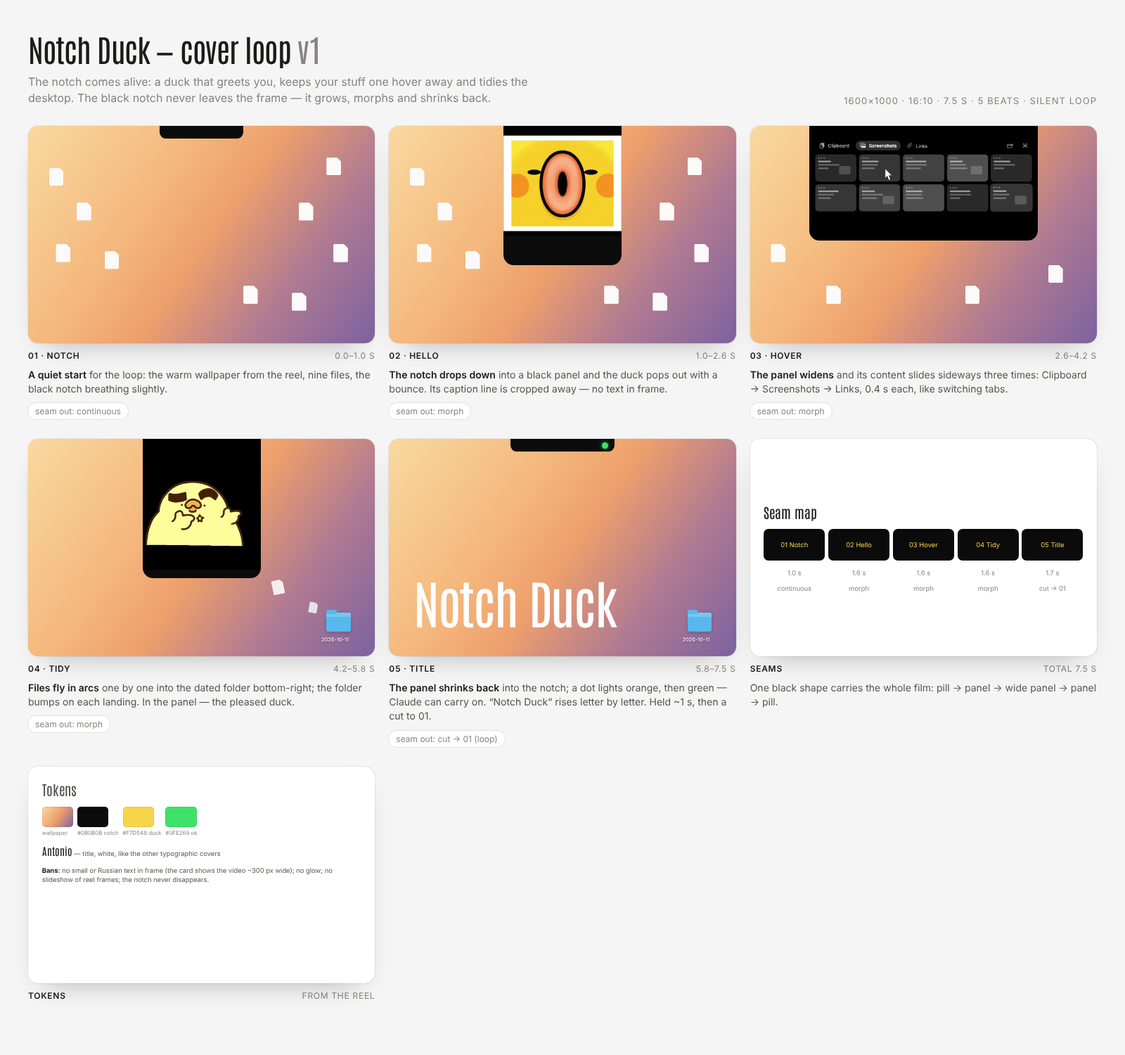
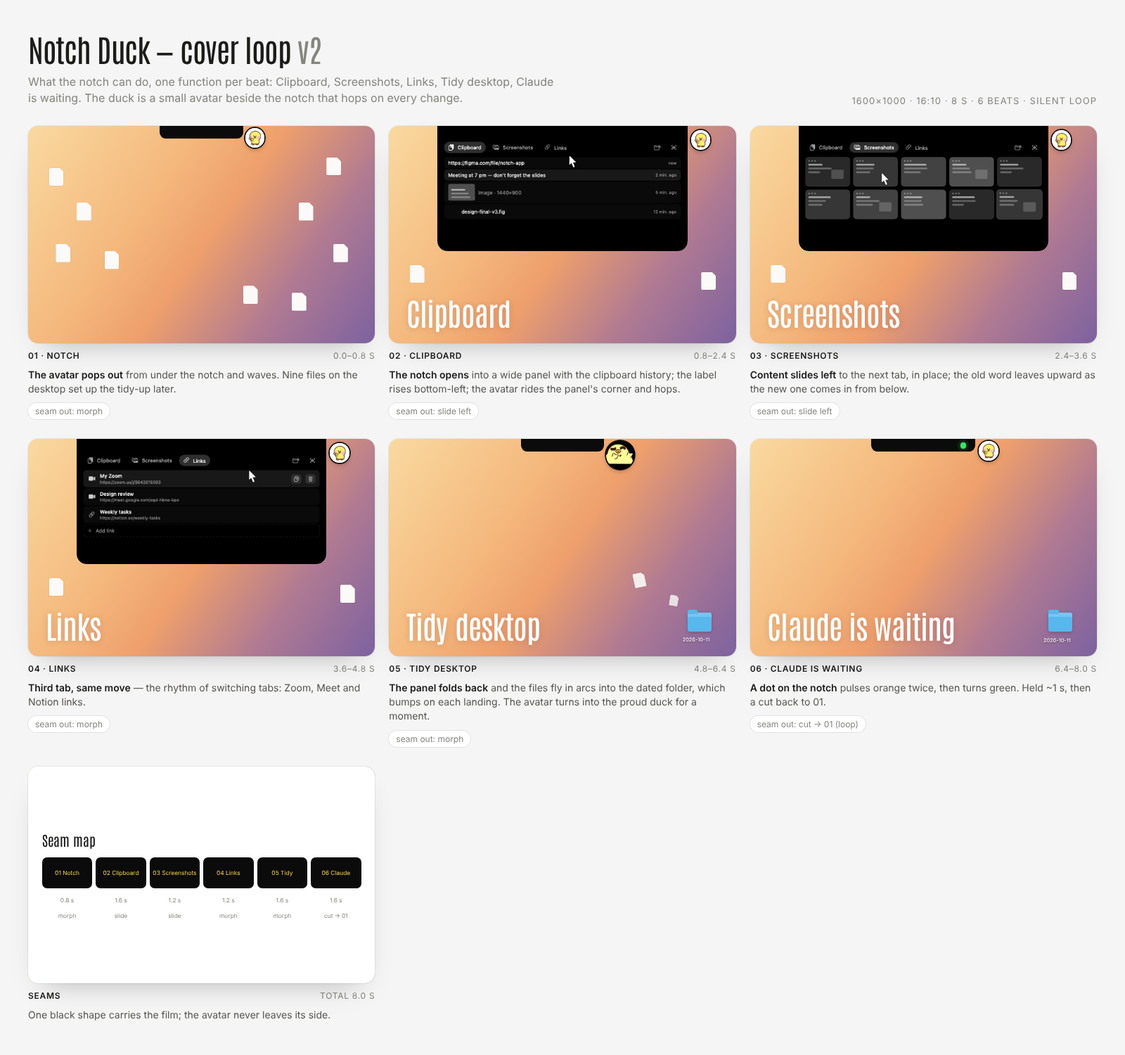
Notch Duck cover: storyboard v2 puts the features first
Feedback on v1: show what the app can do, let the duck just add life.
Six beats now, one per feature with a large label: Clipboard,
Screenshots, Links, Tidy desktop, Claude is waiting. The duck shrinks
to a round avatar beside the notch that hops on every change and turns
into the proud duck once after the tidy-up.

Claude-Session: https://claude.ai/code/session_013zobrgune8nkUsR9AuPLuf

diff --git a/prototypes/notch-duck-cover/storyboard.html b/prototypes/notch-duck-cover/storyboard.html
@@ -3,7 +3,7 @@
 <head>
 <meta charset="utf-8">
 <meta name="viewport" content="width=device-width, initial-scale=1">
-<title>Notch Duck cover — storyboard v1</title>
+<title>Notch Duck cover — storyboard v2</title>
 <style>
   @font-face { font-family: "Antonio"; src: url("assets/fonts/antonio.woff2") format("woff2"); }
   :root { --notch: #0b0b0b; --duck: #f7d548; --sheet: #f5f5f5; --ink: #1b1b1a; --label: #85847f; }
@@ -11,7 +11,7 @@
   body { margin: 0; background: var(--sheet); color: var(--ink); font-family: "Helvetica Neue", Helvetica, Arial, sans-serif; padding: 40px 40px 64px; }
   header { display: flex; justify-content: space-between; align-items: end; gap: 24px; margin-bottom: 28px; }
   header h1 { margin: 0; font-family: Antonio, sans-serif; font-weight: 400; font-size: 44px; letter-spacing: -0.03em; }
-  header p { margin: 8px 0 0; color: var(--label); font-size: 16px; max-width: 720px; line-height: 1.45; }
+  header p { margin: 8px 0 0; color: var(--label); font-size: 16px; max-width: 760px; line-height: 1.45; }
   .tag { font-size: 13px; letter-spacing: .08em; text-transform: uppercase; color: var(--label); white-space: nowrap; }
   .grid { display: grid; grid-template-columns: repeat(3, 1fr); gap: 28px 20px; }
   .cell { display: grid; gap: 10px; align-content: start; }
@@ -27,31 +27,31 @@
   /* pieces, 1cqw = 16px of the 1600px canvas */
   .notch { position: absolute; left: 50%; top: 0; background: var(--notch); overflow: hidden; }
   .pill { width: 24cqw; height: 3.6cqw; margin-left: -12cqw; border-radius: 0 0 1.8cqw 1.8cqw; }
+  .panel { width: 72cqw; height: 36cqw; margin-left: -36cqw; border-radius: 0 0 3cqw 3cqw; }
+  .panel img { position: absolute; left: 0; top: 0; width: 72cqw; }
+  .avatar { position: absolute; width: 5.6cqw; height: 5.6cqw; border-radius: 50%; overflow: hidden; background: #fff; box-shadow: 0 0 0 .35cqw var(--notch), 0 .6cqw 1.4cqw rgba(0,0,0,.25); }
+  .avatar img { width: 100%; height: 100%; object-fit: cover; display: block; }
   .file { position: absolute; width: 4.2cqw; height: 5.2cqw; background: #fbfaf8; border-radius: .4cqw; box-shadow: 0 .3cqw .8cqw rgba(0,0,0,.15); clip-path: polygon(0 0, 72% 0, 100% 22%, 100% 100%, 0 100%); }
   .folder { position: absolute; width: 7cqw; height: 5.4cqw; background: #58b7ec; border-radius: .6cqw; box-shadow: inset 0 1.2cqw 0 #74c6f2, 0 .4cqw 1cqw rgba(0,0,0,.18); }
   .folder::before { content: ""; position: absolute; left: 0; top: -.8cqw; width: 3cqw; height: 1.2cqw; background: #58b7ec; border-radius: .5cqw .5cqw 0 0; }
   .flabel { position: absolute; font-size: 1.5cqw; color: #fff; text-shadow: 0 1px 3px rgba(0,0,0,.4); }
   .dot { position: absolute; width: 1.8cqw; height: 1.8cqw; border-radius: 50%; }
-  .title { position: absolute; left: 7cqw; bottom: 9cqw; font-family: Antonio, sans-serif; font-size: 15cqw; line-height: .9; letter-spacing: -0.03em; color: #fff; }
+  .label { position: absolute; left: 5cqw; bottom: 4.5cqw; font-family: Antonio, sans-serif; font-size: 9cqw; line-height: .95; letter-spacing: -0.02em; color: #fff; text-shadow: 0 .3cqw 2cqw rgba(60,30,60,.18); }
 
   .seams { position: absolute; inset: 0; background: #fff; padding: 4cqw; display: grid; align-content: center; gap: 2.4cqw; }
-  .seams .row { display: grid; grid-template-columns: repeat(5, 1fr); gap: 1cqw; }
-  .seams .b { height: 9cqw; border-radius: 1.4cqw; background: var(--notch); color: var(--duck); font-size: 1.9cqw; display: grid; place-items: center; text-align: center; }
-  .seams .s { font-size: 1.9cqw; color: var(--label); text-align: center; }
-  .seams h3, .tokens h3 { margin: 0; font-family: Antonio, sans-serif; font-weight: 400; font-size: 4cqw; }
-  .tokens { position: absolute; inset: 0; background: #fff; padding: 4cqw; display: grid; align-content: start; gap: 2cqw; font-size: 1.9cqw; color: #55544f; line-height: 1.4; }
-  .sw { display: flex; gap: 1.2cqw; }
-  .sw span { display: grid; gap: .6cqw; font-size: 1.6cqw; color: var(--label); }
-  .sw i { display: block; width: 9cqw; height: 6cqw; border-radius: 1cqw; box-shadow: inset 0 0 0 1px rgba(0,0,0,.08); }
+  .seams .row { display: grid; grid-template-columns: repeat(6, 1fr); gap: 1cqw; }
+  .seams .b { height: 9cqw; border-radius: 1.4cqw; background: var(--notch); color: var(--duck); font-size: 1.7cqw; display: grid; place-items: center; text-align: center; padding: 0 .4cqw; }
+  .seams .s { font-size: 1.7cqw; color: var(--label); text-align: center; }
+  .seams h3 { margin: 0; font-family: Antonio, sans-serif; font-weight: 400; font-size: 4cqw; }
 </style>
 </head>
 <body>
 <header>
   <div>
-    <h1>Notch Duck — cover loop <span style="color:var(--label)">v1</span></h1>
-    <p>The notch comes alive: a duck that greets you, keeps your stuff one hover away and tidies the desktop. The black notch never leaves the frame — it grows, morphs and shrinks back.</p>
+    <h1>Notch Duck — cover loop <span style="color:var(--label)">v2</span></h1>
+    <p>What the notch can do, one function per beat: Clipboard, Screenshots, Links, Tidy desktop, Claude is waiting. The duck is a small avatar beside the notch that hops on every change.</p>
   </div>
-  <span class="tag">1600×1000 · 16:10 · 7.5 s · 5 beats · silent loop</span>
+  <span class="tag">1600×1000 · 16:10 · 8 s · 6 beats · silent loop</span>
 </header>
 
 <div class="grid">
@@ -60,6 +60,7 @@
   <div class="cell">
     <div class="frame" id="frame-01">
       <div class="notch pill"></div>
+      <div class="avatar" style="left:62.6cqw; top:.6cqw"><img src="assets/duck-avatar.jpg" alt=""></div>
       <div class="file" style="left:6cqw; top:12cqw"></div>
       <div class="file" style="left:14cqw; top:22cqw"></div>
       <div class="file" style="left:8cqw; top:34cqw"></div>
@@ -70,75 +71,81 @@
       <div class="file" style="left:62cqw; top:46cqw"></div>
       <div class="file" style="left:76cqw; top:48cqw"></div>
     </div>
-    <div class="meta"><span><b>01 · Notch</b></span><span>0.0–1.0 s</span></div>
-    <p class="note"><b>A quiet start</b> for the loop: the warm wallpaper from the reel, nine files, the black notch breathing slightly.</p>
-    <span class="chip">seam out: continuous</span>
+    <div class="meta"><span><b>01 · Notch</b></span><span>0.0–0.8 s</span></div>
+    <p class="note"><b>The avatar pops out</b> from under the notch and waves. Nine files on the desktop set up the tidy-up later.</p>
+    <span class="chip">seam out: morph</span>
   </div>
 
   <!-- 02 -->
   <div class="cell">
     <div class="frame" id="frame-02">
-      <div class="notch" style="width:34cqw; height:40cqw; margin-left:-17cqw; border-radius:0 0 3cqw 3cqw">
-        <img src="assets/duck-hello.jpg" alt="" style="position:absolute; left:0; top:-0.4cqw; width:34cqw; clip-path: inset(0 0 27% 0)">
-      </div>
-      <div class="file" style="left:6cqw; top:12cqw"></div>
-      <div class="file" style="left:14cqw; top:22cqw"></div>
-      <div class="file" style="left:8cqw; top:34cqw"></div>
-      <div class="file" style="left:22cqw; top:36cqw"></div>
-      <div class="file" style="left:86cqw; top:9cqw"></div>
-      <div class="file" style="left:78cqw; top:22cqw"></div>
-      <div class="file" style="left:88cqw; top:34cqw"></div>
-      <div class="file" style="left:62cqw; top:46cqw"></div>
-      <div class="file" style="left:76cqw; top:48cqw"></div>
+      <div class="notch panel"><img src="assets/panel-clipboard.jpg" alt=""></div>
+      <div class="avatar" style="left:87cqw; top:1.2cqw"><img src="assets/duck-avatar.jpg" alt=""></div>
+      <div class="file" style="left:6cqw; top:40cqw"></div>
+      <div class="file" style="left:90cqw; top:42cqw"></div>
+      <div class="label">Clipboard</div>
     </div>
-    <div class="meta"><span><b>02 · Hello</b></span><span>1.0–2.6 s</span></div>
-    <p class="note"><b>The notch drops down</b> into a black panel and the duck pops out with a bounce. Its caption line is cropped away — no text in frame.</p>
-    <span class="chip">seam out: morph</span>
+    <div class="meta"><span><b>02 · Clipboard</b></span><span>0.8–2.4 s</span></div>
+    <p class="note"><b>The notch opens</b> into a wide panel with the clipboard history; the label rises bottom-left; the avatar rides the panel's corner and hops.</p>
+    <span class="chip">seam out: slide left</span>
   </div>
 
   <!-- 03 -->
   <div class="cell">
     <div class="frame" id="frame-03">
-      <div class="file" style="left:6cqw; top:34cqw"></div>
-      <div class="file" style="left:22cqw; top:46cqw"></div>
-      <div class="file" style="left:62cqw; top:46cqw"></div>
-      <div class="file" style="left:86cqw; top:40cqw"></div>
-      <div class="notch" style="width:66cqw; height:33cqw; margin-left:-33cqw; border-radius:0 0 3cqw 3cqw">
-        <img src="assets/panel-screenshots.jpg" alt="" style="position:absolute; left:0; top:0; width:66cqw">
-      </div>
+      <div class="notch panel"><img src="assets/panel-screenshots.jpg" alt=""></div>
+      <div class="avatar" style="left:87cqw; top:1.2cqw"><img src="assets/duck-avatar.jpg" alt=""></div>
+      <div class="file" style="left:6cqw; top:40cqw"></div>
+      <div class="file" style="left:90cqw; top:42cqw"></div>
+      <div class="label">Screenshots</div>
     </div>
-    <div class="meta"><span><b>03 · Hover</b></span><span>2.6–4.2 s</span></div>
-    <p class="note"><b>The panel widens</b> and its content slides sideways three times: Clipboard → Screenshots → Links, 0.4 s each, like switching tabs.</p>
-    <span class="chip">seam out: morph</span>
+    <div class="meta"><span><b>03 · Screenshots</b></span><span>2.4–3.6 s</span></div>
+    <p class="note"><b>Content slides left</b> to the next tab, in place; the old word leaves upward as the new one comes in from below.</p>
+    <span class="chip">seam out: slide left</span>
   </div>
 
   <!-- 04 -->
   <div class="cell">
     <div class="frame" id="frame-04">
-      <div class="notch" style="width:34cqw; height:40cqw; margin-left:-17cqw; border-radius:0 0 3cqw 3cqw">
-        <img src="assets/duck-done.jpg" alt="" style="position:absolute; left:0; top:0; width:34cqw; clip-path: inset(0 0 14% 0)">
-      </div>
-      <div class="file" style="left:70cqw; top:40cqw; transform: rotate(-12deg) scale(.8); opacity:.9"></div>
-      <div class="file" style="left:80cqw; top:46cqw; transform: rotate(10deg) scale(.6); opacity:.8"></div>
-      <div class="folder" style="left:86cqw; top:50cqw"></div>
-      <div class="flabel" style="left:84.6cqw; top:57cqw">2026-10-11</div>
+      <div class="notch panel"><img src="assets/panel-links.jpg" alt=""></div>
+      <div class="avatar" style="left:87cqw; top:1.2cqw"><img src="assets/duck-avatar.jpg" alt=""></div>
+      <div class="file" style="left:6cqw; top:40cqw"></div>
+      <div class="file" style="left:90cqw; top:42cqw"></div>
+      <div class="label">Links</div>
     </div>
-    <div class="meta"><span><b>04 · Tidy</b></span><span>4.2–5.8 s</span></div>
-    <p class="note"><b>Files fly in arcs</b> one by one into the dated folder bottom-right; the folder bumps on each landing. In the panel — the pleased duck.</p>
+    <div class="meta"><span><b>04 · Links</b></span><span>3.6–4.8 s</span></div>
+    <p class="note"><b>Third tab, same move</b> — the rhythm of switching tabs: Zoom, Meet and Notion links.</p>
     <span class="chip">seam out: morph</span>
   </div>
 
   <!-- 05 -->
   <div class="cell">
     <div class="frame" id="frame-05">
-      <div class="notch pill" style="width:30cqw; margin-left:-15cqw"></div>
-      <div class="dot" style="left:61.4cqw; top:.9cqw; background:#3fe269; box-shadow: 0 0 1.4cqw rgba(63,226,105,.7)"></div>
+      <div class="notch pill"></div>
+      <div class="avatar" style="left:62.6cqw; top:.6cqw; width:8cqw; height:8cqw; background:#000"><img src="assets/duck-proud.jpg" alt=""></div>
+      <div class="file" style="left:70cqw; top:38cqw; transform: rotate(-12deg) scale(.8); opacity:.9"></div>
+      <div class="file" style="left:80cqw; top:44cqw; transform: rotate(10deg) scale(.6); opacity:.8"></div>
       <div class="folder" style="left:86cqw; top:50cqw"></div>
       <div class="flabel" style="left:84.6cqw; top:57cqw">2026-10-11</div>
-      <div class="title">Notch Duck</div>
+      <div class="label">Tidy desktop</div>
     </div>
-    <div class="meta"><span><b>05 · Title</b></span><span>5.8–7.5 s</span></div>
-    <p class="note"><b>The panel shrinks back</b> into the notch; a dot lights orange, then green — Claude can carry on. “Notch Duck” rises letter by letter. Held ~1 s, then a cut to 01.</p>
+    <div class="meta"><span><b>05 · Tidy desktop</b></span><span>4.8–6.4 s</span></div>
+    <p class="note"><b>The panel folds back</b> and the files fly in arcs into the dated folder, which bumps on each landing. The avatar turns into the proud duck for a moment.</p>
+    <span class="chip">seam out: morph</span>
+  </div>
+
+  <!-- 06 -->
+  <div class="cell">
+    <div class="frame" id="frame-06">
+      <div class="notch pill" style="width:30cqw; margin-left:-15cqw"></div>
+      <div class="dot" style="left:60.6cqw; top:.9cqw; background:#3fe269; box-shadow: 0 0 1.4cqw rgba(63,226,105,.7)"></div>
+      <div class="avatar" style="left:66cqw; top:.6cqw"><img src="assets/duck-avatar.jpg" alt=""></div>
+      <div class="folder" style="left:86cqw; top:50cqw"></div>
+      <div class="flabel" style="left:84.6cqw; top:57cqw">2026-10-11</div>
+      <div class="label">Claude is waiting</div>
+    </div>
+    <div class="meta"><span><b>06 · Claude is waiting</b></span><span>6.4–8.0 s</span></div>
+    <p class="note"><b>A dot on the notch</b> pulses orange twice, then turns green. Held ~1 s, then a cut back to 01.</p>
     <span class="chip">seam out: cut → 01 (loop)</span>
   </div>
 
@@ -147,31 +154,13 @@
     <div class="frame">
       <div class="seams">
         <h3>Seam map</h3>
-        <div class="row"><div class="b">01 Notch</div><div class="b">02 Hello</div><div class="b">03 Hover</div><div class="b">04 Tidy</div><div class="b">05 Title</div></div>
-        <div class="row"><div class="s">1.0 s</div><div class="s">1.6 s</div><div class="s">1.6 s</div><div class="s">1.6 s</div><div class="s">1.7 s</div></div>
-        <div class="row"><div class="s">continuous</div><div class="s">morph</div><div class="s">morph</div><div class="s">morph</div><div class="s">cut → 01</div></div>
+        <div class="row"><div class="b">01 Notch</div><div class="b">02 Clipboard</div><div class="b">03 Screenshots</div><div class="b">04 Links</div><div class="b">05 Tidy</div><div class="b">06 Claude</div></div>
+        <div class="row"><div class="s">0.8 s</div><div class="s">1.6 s</div><div class="s">1.2 s</div><div class="s">1.2 s</div><div class="s">1.6 s</div><div class="s">1.6 s</div></div>
+        <div class="row"><div class="s">morph</div><div class="s">slide</div><div class="s">slide</div><div class="s">morph</div><div class="s">morph</div><div class="s">cut → 01</div></div>
       </div>
     </div>
-    <div class="meta"><span><b>Seams</b></span><span>total 7.5 s</span></div>
-    <p class="note">One black shape carries the whole film: pill → panel → wide panel → panel → pill.</p>
-  </div>
-
-  <!-- tokens -->
-  <div class="cell">
-    <div class="frame">
-      <div class="tokens">
-        <h3>Tokens</h3>
-        <div class="sw">
-          <span><i style="background: linear-gradient(125deg, #f9d9a0, #ee9f6c 50%, #7d62a0)"></i>wallpaper</span>
-          <span><i style="background:#0b0b0b"></i>#0B0B0B notch</span>
-          <span><i style="background:#f7d548"></i>#F7D548 duck</span>
-          <span><i style="background:#3fe269"></i>#3FE269 ok</span>
-        </div>
-        <div><span style="font-family: Antonio, sans-serif; font-size: 3cqw; color: var(--ink)">Antonio</span> — title, white, like the other typographic covers</div>
-        <div><b style="color:var(--ink)">Bans:</b> no small or Russian text in frame (the card shows the video ~300 px wide); no glow; no slideshow of reel frames; the notch never disappears.</div>
-      </div>
-    </div>
-    <div class="meta"><span><b>Tokens</b></span><span>from the reel</span></div>
+    <div class="meta"><span><b>Seams</b></span><span>total 8.0 s</span></div>
+    <p class="note">One black shape carries the film; the avatar never leaves its side.</p>
   </div>
 
 </div>

diff --git a/prototypes/notch-duck-cover/STORYBOARD.md b/prototypes/notch-duck-cover/STORYBOARD.md
@@ -1,66 +1,84 @@
 ---
 format: 1600x1000
-duration: 7.5s
-message: "The notch comes alive: a duck that greets you, keeps your stuff and tidies the desktop"
-arc: Notch → Hello → Hover → Tidy → Title
+duration: 8s
+message: "What the notch can do: clipboard, screenshots, links, a tidy desktop, a ping from Claude"
+arc: Notch → Clipboard → Screenshots → Links → Tidy desktop → Claude is waiting
 audience: visitors of lukinslava.github.io scanning the AI & side projects row
 mode: collaborative
 ---
 
-# Notch Duck — cover loop, v1
+# Notch Duck — cover loop, v2
 
 Обложка кейса на главной, ряд AI & side projects: ролик 16:10, на карточке
 ~300 px шириной, без звука, по кругу.
 
-- **Message:** нотч оживает — утка здоровается, держит под рукой буфер, скриншоты и ссылки, убирает рабочий стол.
-- **Format:** 1600×1000, 30 fps, 7,5 с, без звука, бесшовный цикл: ролик начинается и заканчивается закрытым нотчем.
-- **Spine:** чёрный нотч сверху по центру. Он не уходит из кадра: растёт в панель, меняет форму и в конце снова сжимается в «таблетку».
-- **Brand:** тёплый градиент обоев из ролика (`#F9D9A0` → `#F2A86A` → `#7D62A0`), чёрный нотч `#0B0B0B`, утиный жёлтый `#F7D548`; заголовок — Antonio белым, как у соседних типографических обложек.
-- **Truthfulness:** утка и панели — настоящие кадры из ролика; иконки файлов и папку на шаге 04 перерисовываю, чтобы они могли лететь.
-- **Bans:** никакого мелкого и русского текста в кадре (на карточке он нечитаем); без свечения; не слайдшоу из кадров ролика; нотч не исчезает.
-- **Held frame:** 05 — последние ~1 с: закрытый нотч с зелёной точкой и название.
+## Changes from v1
+
+- «Давай в ролике на обложке сделаем больше упор на функционал, а утка пусть просто даёт живости. Хочется показать просто, что возможно делать.»
+- Утка больше не главный герой: маленький круглый аватар сбоку от нотча, подпрыгивает на каждой смене функции и один раз радуется после уборки.
+- Каждая функция получила свой бит и крупную подпись слева внизу, как в ролике автора: Clipboard, Screenshots, Links, Tidy desktop, Claude is waiting.
+- Название «Notch Duck» из ролика убрано: оно есть под карточкой.
+
+## Решения
+
+- **Message:** что умеет нотч — пять функций подряд.
+- **Format:** 1600×1000, 30 fps, 8 с, без звука; цикл склеивается жёстким монтажом с последнего кадра на первый.
+- **Spine:** чёрный нотч сверху по центру — растёт в панель, переключает вкладки, сжимается, загорается точкой. Рядом всегда аватар утки.
+- **Brand:** тёплые обои из ролика (`#F9D9A0` → `#EE9F6C` → `#7D62A0`), нотч `#0B0B0B`, точки `#E06F4F` / `#3FE269`; подписи — Antonio белым, ~144 px (около 27 px на карточке).
+- **Truthfulness:** панели и утка — кадры из ролика; иконки файлов и папку перерисовываю, чтобы они могли лететь.
+- **Bans:** без русского и мелкого текста поверх кадра; утка не крупнее аватара, кроме короткой реакции; не слайдшоу — панель меняет содержимое на месте.
+- **Held frame:** 06 — последняя ~1 с: нотч с зелёной точкой и подпись.
 
 ## Frame 1 — Notch
 
-- scene: Тёплые обои macOS, сверху по центру — чёрный нотч; по столу разбросаны файлы
-- duration: 1.0s
+- scene: Обои с файлами, закрытый нотч; из-за его края выскакивает круглый аватар утки и машет
+- duration: 0.8s
 - transition_in: cut
 - status: built
 
-0,0–1,0 с. Тихое начало для бесшовного цикла: файлы стоят, нотч чуть «дышит» (scaleX 1 → 1,04).
+0,0–0,8 с. Аватар выезжает из-под нотча вправо (back.out, 0,35 с).
 
-## Frame 2 — Hello
+## Frame 2 — Clipboard
 
-- scene: Нотч вытягивается вниз в чёрную панель, из неё выглядывает утка
-- duration: 1.6s
-- transition_in: continuous
-- status: built
-
-1,0–2,6 с. Панель растёт вниз (expo.out, 0,5 с), утка «Кря! Я на месте» появляется с подскоком (back.out). Подпись утки обрезана — текста в кадре нет.
-
-## Frame 3 — Hover
-
-- scene: Панель становится шире — вкладки Clipboard, Screenshots, Links быстро сменяют друг друга
+- scene: Нотч раскрывается в широкую панель с историей буфера; слева внизу «Clipboard»
 - duration: 1.6s
 - transition_in: morph
 - status: built
 
-2,6–4,2 с. Панель перетекает в широкую (power3.inOut, 0,45 с). Содержимое меняется трижды по 0,4 с горизонтальным сдвигом — как переключение вкладок.
+0,8–2,4 с. Панель растёт вниз и в стороны (expo.out, 0,5 с), подпись поднимается снизу. Аватар подпрыгивает.
 
-## Frame 4 — Tidy
+## Frame 3 — Screenshots
 
-- scene: Панель снова узкая, утка довольна; файлы со стола слетаются в папку 2026-10-11
+- scene: Содержимое панели сдвигается на вкладку скриншотов; подпись меняется на «Screenshots»
+- duration: 1.2s
+- transition_in: slide left
+- status: built
+
+2,4–3,6 с. Сдвиг содержимого влево (power3.inOut, 0,35 с), подпись сменяется так же — старое слово уезжает вверх, новое въезжает снизу.
+
+## Frame 4 — Links
+
+- scene: Вкладка ссылок; подпись «Links»
+- duration: 1.2s
+- transition_in: slide left
+- status: built
+
+3,6–4,8 с. Тот же ход, третий раз — ритм вкладок.
+
+## Frame 5 — Tidy desktop
+
+- scene: Панель схлопывается в нотч; файлы со стола слетаются в папку 2026-10-11; аватар на секунду становится довольной уткой; подпись «Tidy desktop»
 - duration: 1.6s
 - transition_in: morph
 - status: built
 
-4,2–5,8 с. Файлы по очереди летят по дуге в папку справа внизу (stagger 0,06 с, power2.in), папка подпрыгивает. В панели — утка «Готово!».
+4,8–6,4 с. Файлы летят по дуге в папку (stagger 0,05 с, power2.in), папка подпрыгивает на каждом. Аватар: смена на довольную утку с подскоком.
 
-## Frame 5 — Title
+## Frame 6 — Claude is waiting
 
-- scene: Панель сжимается обратно в нотч, на нём загорается оранжевая точка и становится зелёной; слева крупно «Notch Duck»
-- duration: 1.7s
+- scene: Нотч чуть шире, на нём пульсирует оранжевая точка, потом становится зелёной; подпись «Claude is waiting»
+- duration: 1.6s
 - transition_in: morph
 - status: built
 
-5,8–7,5 с. Нотч сжимается (power3.inOut, 0,4 с), точка: оранжевая → зелёная. «Notch Duck» поднимается по буквам. Последняя секунда — удержание, затем склейка на кадр 01.
+6,4–8,0 с. Точка: два пульса оранжевым, затем зелёная. Последняя секунда — удержание, затем склейка на кадр 01.
